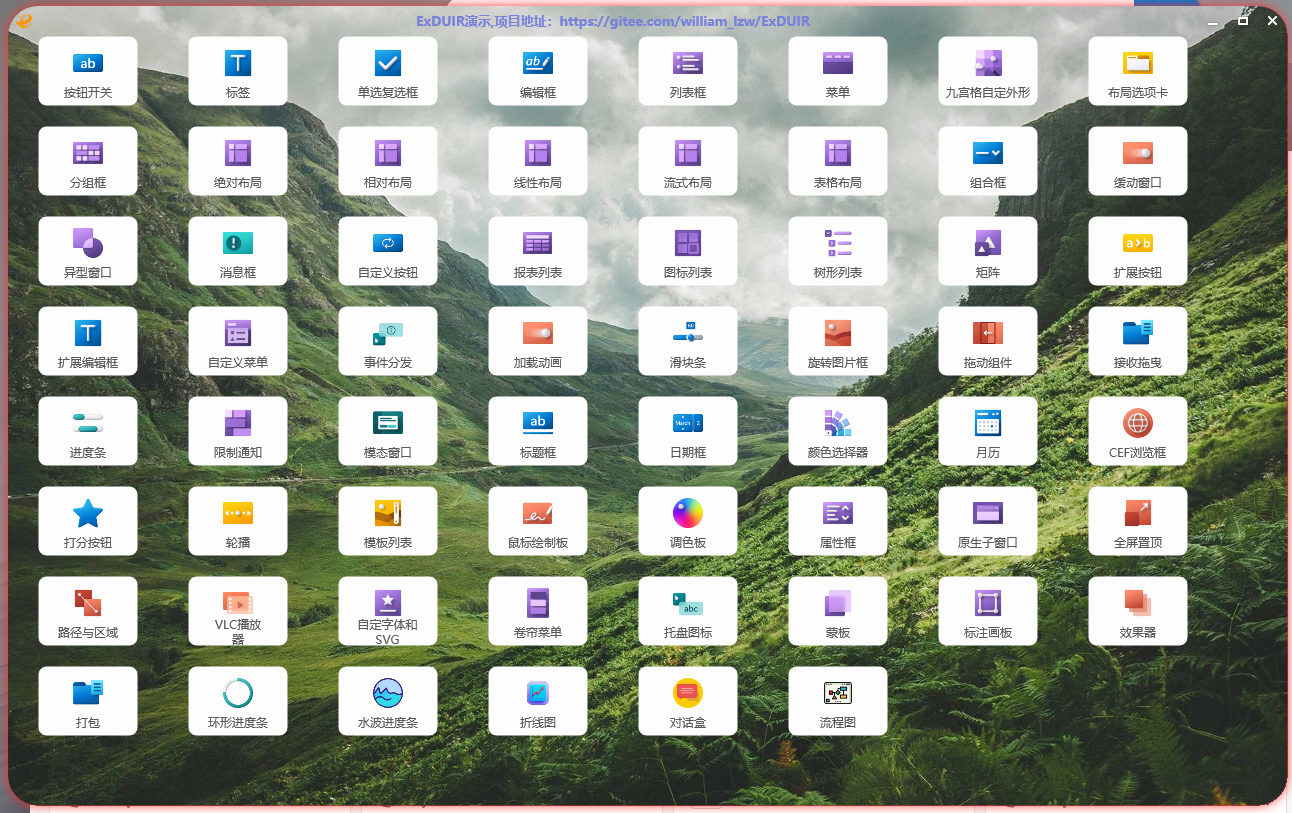
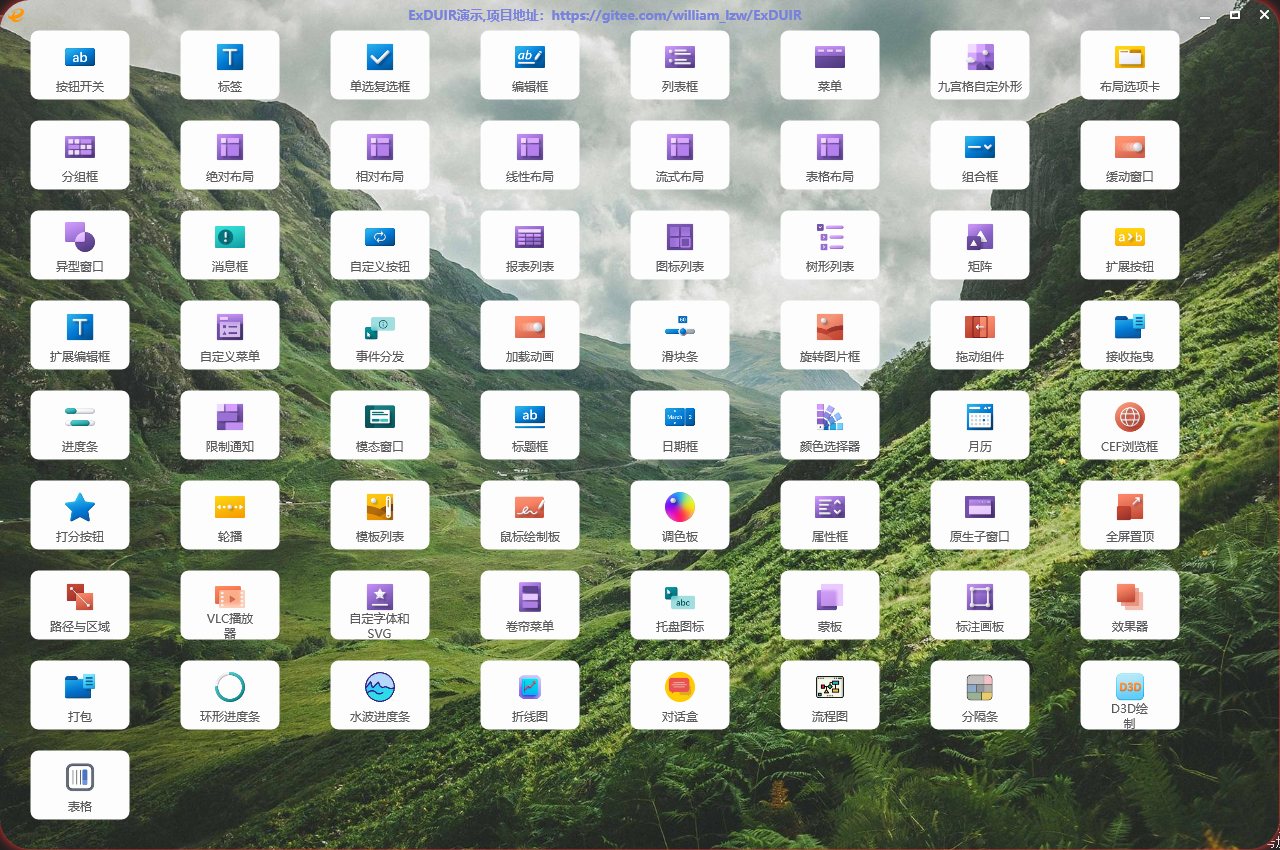
update

diff --git a/msvc/demo/test_grid.cpp b/msvc/demo/test_grid.cpp
@@ -39,7 +39,7 @@ void testgrid(HEXDUI hExDui)
     HEXOBJ hGrid = Ex_ObjCreate(L"GridCtrl", L"",
         OBJECT_STYLE_VISIBLE | OBJECT_STYLE_VSCROLL | OBJECT_STYLE_HSCROLL
         ,
-        50, 50, 701, 270,
+        50, 50, 700, 270,
         hExDui);
     //auto bt = Ex_ObjCreateEx(-1, L"button", L"表格打印测试", -1, 290, 480, 100, 30, hExDui, 101, DT_VCENTER | DT_CENTER, hGrid, NULL);
     //Ex_ObjHandleEvent(bt, NM_CLICK, button_click2);
@@ -148,7 +148,7 @@ void testgrid(HEXDUI hExDui)
 void test_grid(HWND hWnd)
 {
     HWND hWnd_grid =
-        Ex_WndCreate(hWnd, L"Ex_DirectUI", L"测试表格", 0, 0, 900, 500, 0, 0);
+        Ex_WndCreate(hWnd, L"Ex_DirectUI", L"测试表格", 0, 0, 800, 500, 0, 0);
     HEXDUI hExDui_grid = Ex_DUIBindWindowEx(
         hWnd_grid, 0,
         WINDOW_STYLE_NOINHERITBKG | WINDOW_STYLE_MOVEABLE | WINDOW_STYLE_CENTERWINDOW |

diff --git a/msvc/demo/main.cpp b/msvc/demo/main.cpp
@@ -153,7 +153,7 @@ void test_exdui()
         hCursor, 0, data.data(), data.size(), 0, 0);
 
     INT windowWidth = 1280;
-    INT windowsHeight = 800;
+    INT windowsHeight = 850;
     m_hWnd = Ex_WndCreate(0, 0, L"ExDUIR演示,项目地址：https://gitee.com/william_lzw/ExDUIR", 0, 0,
         windowWidth, windowsHeight, 0, 0);
     if (m_hWnd != 0) {

diff --git a/README.md b/README.md
@@ -194,3 +194,5 @@ Ex_ObjRegister注册组件类,在回调callback的WM_PAINT消息里绘制组件,
 ![image](demo_image/demo_splitter.png)
 ### demo d3d:
 ![image](demo_image/demo_d3d.png)
+### demo grid:
+![image](demo_image/demo_grid.png)

diff --git a/README_EN.md b/README_EN.md
@@ -188,3 +188,5 @@ The drawing component starts by calling Ex_ObjBeginPaint, passing in the drawing
 ![image](demo_image/demo_splitter.png)
 ### demo d3d:
 ![image](demo_image/demo_d3d.png)
+### demo grid:
+![image](demo_image/demo_grid.png)
